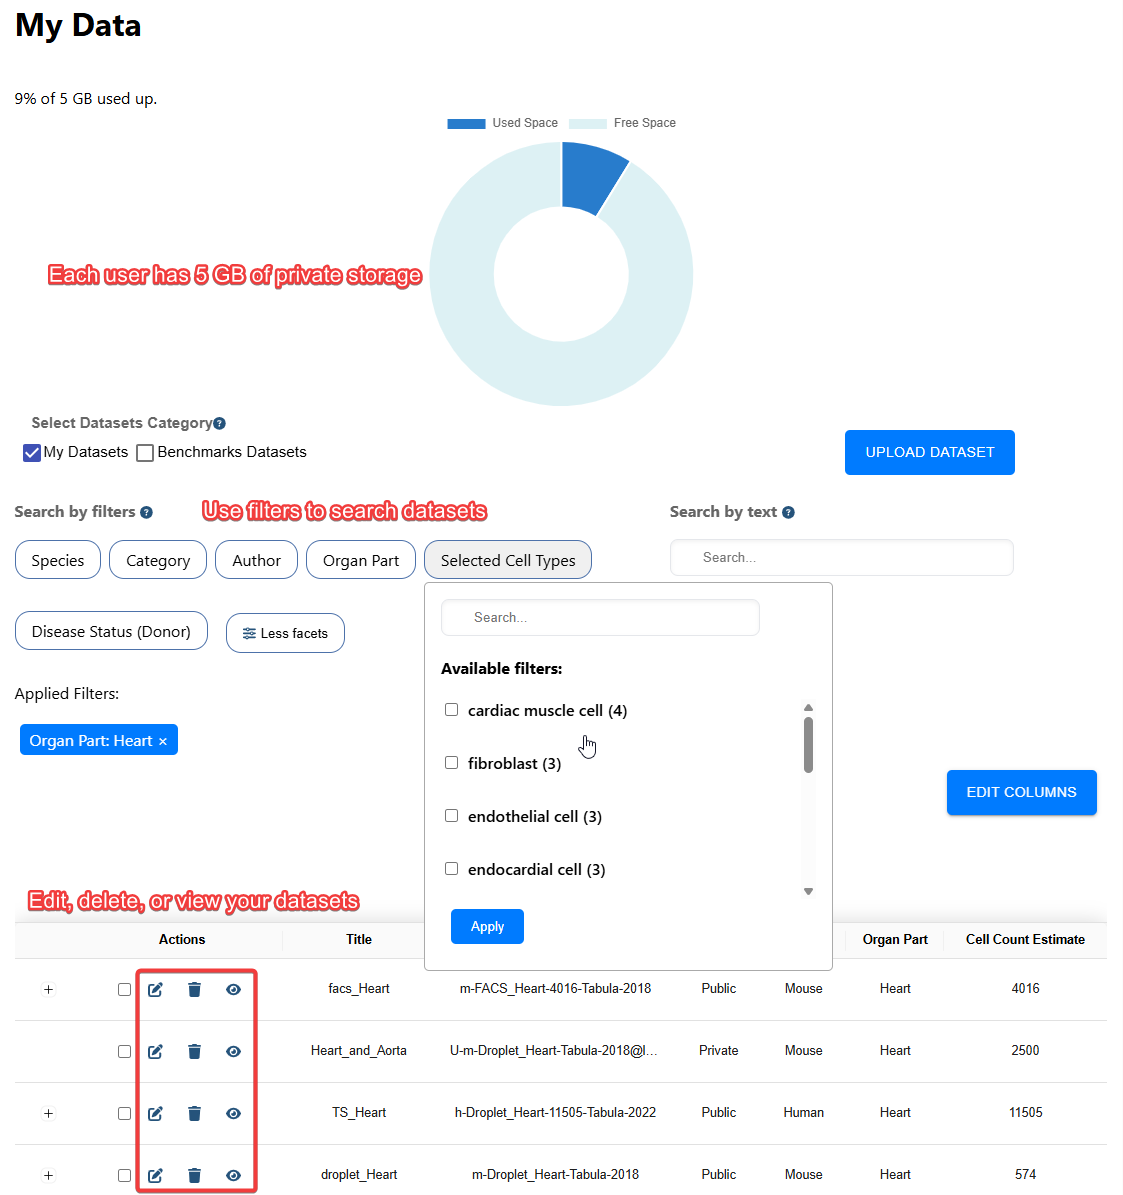
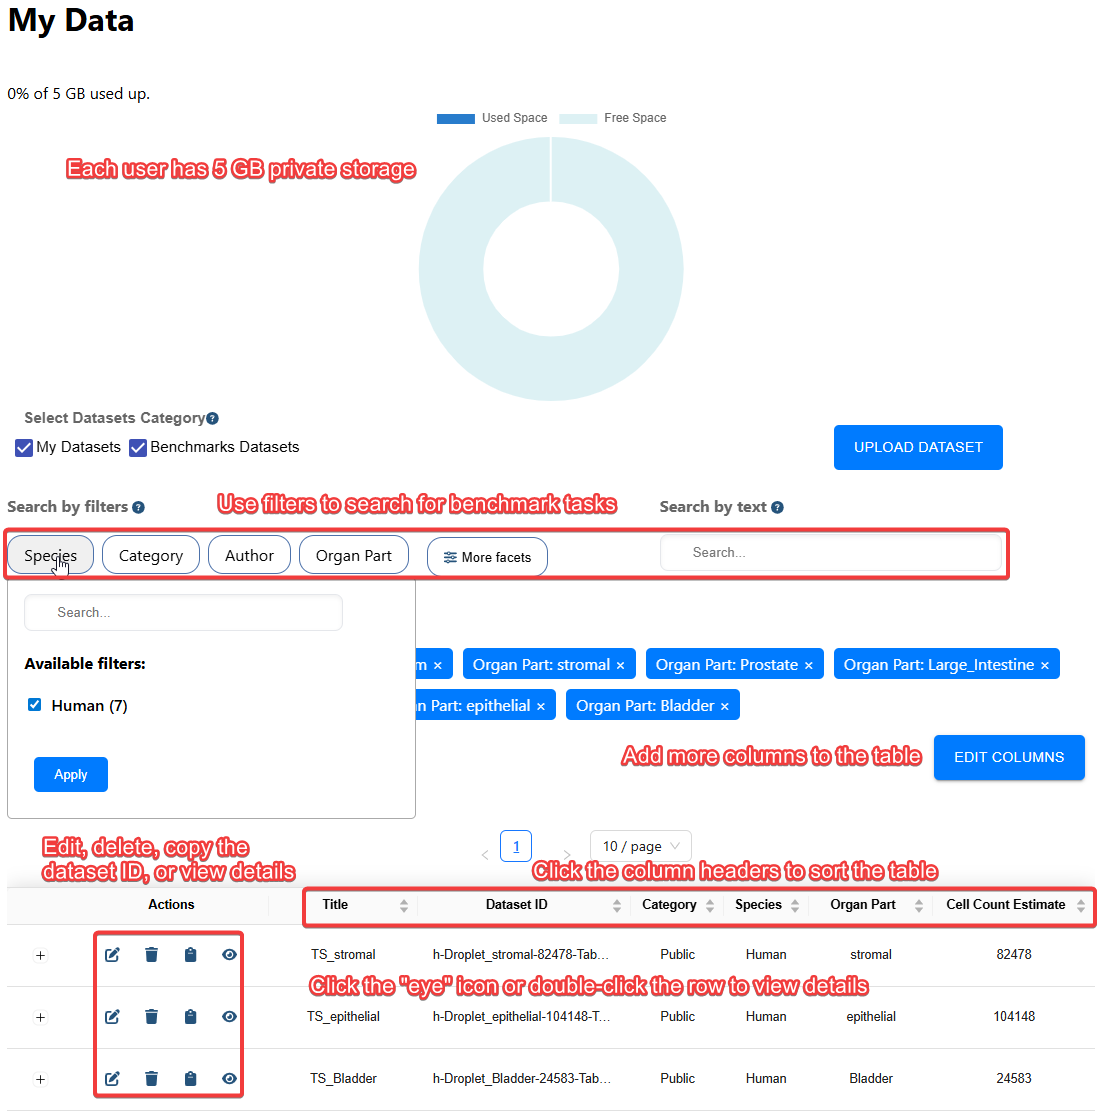
Add delete button to task details.

diff --git a/oscb-ui/oscb-react/src/components/MyData/MyTasks/workflowTaskDetailsComponent.js b/oscb-ui/oscb-react/src/components/MyData/MyTasks/workflowTaskDetailsComponent.js
@@ -1,5 +1,5 @@
 import React, { useState, useEffect } from 'react';
-import { useLocation } from 'react-router-dom';
+import { useLocation, useNavigate } from 'react-router-dom';
 import useWebSocket from './useWebSocket'; // Custom hook for WebSocket
 import {
   Container, Typography, Chip, Box, Grid, TextField, Button,
@@ -140,6 +140,7 @@ function downloadFile(fileUrl) {
 
 function WorkflowTaskDetailsComponent() {
   const location = useLocation();
+  const navigate = useNavigate();
   const { job_id, methodMap, datasetURL, description, process, output, results, status } = location.state || {};
   const [taskStatus, setTaskStatus] = useState(null); // Set to null initially
   const [taskOutput, setTaskOutput] = useState(null); // Set to null initially
@@ -303,6 +304,27 @@ function WorkflowTaskDetailsComponent() {
         setIsError(true);
       }
     }
+  };
+
+  const handleDelete = () => {
+    console.log("Delete job: ", job_id);
+    const confirmDelete = window.confirm("Are you sure to delete this job?");
+    if (!confirmDelete) {
+      return; // If user clicks cancel, do nothing
+    }
+    axios.delete(`${NODE_API_URL}/deleteJob?jobID=${job_id}`)
+      .then(response => {
+        axios.post(`${CELERY_BACKEND_API}/task/revoke/${job_id}`).then(response => {
+          console.log('Job is deleted successfully');
+          navigate('/myJobs');
+        })
+          .catch(error => {
+            console.error('Error deleting job:', error);
+          });
+      })
+      .catch(error => {
+        console.error('Error deleting job:', error);
+      });
   };
 
   // WebSocket listener
@@ -593,10 +615,23 @@ function WorkflowTaskDetailsComponent() {
                         <Typography variant="body2" color="textSecondary">Not available</Typography>
                       )}
                     </Grid>
-                    <Grid item xs={12}>
+                    <Grid item xs={6}>
                       <Typography variant="subtitle1" gutterBottom><strong>Status:</strong></Typography>
                       <Box sx={{ display: 'flex', alignItems: 'center', gap: 1 }}>
                         <StatusChip status={taskStatus} />
+                      </Box>
+                    </Grid>
+                    <Grid item xs={6}>
+                      <Typography variant="subtitle1" gutterBottom><strong>Action:</strong></Typography>
+                      <Box sx={{ display: 'flex', alignItems: 'center', gap: 1 }}>
+                        <Button
+                          variant="outlined"
+                          color="error"
+                          onClick={handleDelete}
+                          // sx={{ mt: 2 }}
+                        >
+                          {(taskStatus && taskStatus.toLowerCase() !== "success" && taskStatus.toLowerCase() !== "failure") ? 'Terminate' : 'Delete'}
+                        </Button>
                       </Box>
                     </Grid>
                   </Grid>

diff --git a/oscb-ui/oscb-react/src/components/MyData/MyTasks/taskDetailsComponent.js b/oscb-ui/oscb-react/src/components/MyData/MyTasks/taskDetailsComponent.js
@@ -326,6 +326,26 @@ function TaskDetailsComponent() {
     fetchFiles();
   }, [job_id]);
 
+  const handleDelete = () => {
+      console.log("Delete job: ", job_id);
+      const confirmDelete = window.confirm("Are you sure to delete this job?");
+      if (!confirmDelete) {
+        return; // If user clicks cancel, do nothing
+      }
+      axios.delete(`${NODE_API_URL}/deleteJob?jobID=${job_id}`)
+        .then(response => {
+          axios.post(`${CELERY_BACKEND_API}/task/revoke/${job_id}`).then(response => {
+            console.log('Job is deleted successfully');
+            navigate('/myJobs');
+          })
+            .catch(error => {
+              console.error('Error deleting job:', error);
+            });
+        })
+        .catch(error => {
+          console.error('Error deleting job:', error);
+        });
+    };
 
   const handleLogMessage = (event) => {
     setLiveLogs((prevLogs) => prevLogs + event.data);
@@ -461,10 +481,23 @@ function TaskDetailsComponent() {
                           : (<Typography variant="body1">{method}</Typography>))
                       }
                     </Grid>
-                    <Grid item xs={12}> 
+                    <Grid item xs={6}> 
                       <Typography variant="subtitle1" gutterBottom><strong>Status:</strong></Typography>
                       <Box sx={{ display: 'flex', alignItems: 'center', gap: 1 }}>
                         <StatusChip status={taskStatus} />
+                      </Box>
+                    </Grid>
+                    <Grid item xs={6}>
+                      <Typography variant="subtitle1" gutterBottom><strong>Action:</strong></Typography>
+                      <Box sx={{ display: 'flex', alignItems: 'center', gap: 1 }}>
+                        <Button
+                          variant="outlined"
+                          color="error"
+                          onClick={handleDelete}
+                          // sx={{ mt: 2 }}
+                        >
+                          {(taskStatus && taskStatus.toLowerCase() !== "success" && taskStatus.toLowerCase() !== "failure") ? 'Terminate' : 'Delete'}
+                        </Button>
                       </Box>
                     </Grid>
                 </Grid>

diff --git a/oscb-ui/oscb-react/src/components/publishDatasets/components/tableResultsComponent.js b/oscb-ui/oscb-react/src/components/publishDatasets/components/tableResultsComponent.js
@@ -382,6 +382,7 @@ const ResultsTable = ({ data, onSelectDataset, selectedDatasets, multiple, pagin
                 }}
             />
             { <div className="pagination-info">
+                <span>* Click the <strong>column headers</strong> to apply <strong>*filters</strong> or <strong>sort</strong> the table.</span><br />
                 <span>* Click <strong>+</strong> to expand a row and view the detailed outputs of each processed result.</span><br/>
                 {showEdit && (<span>* Click <FontAwesomeIcon icon={faEdit} /> to <strong>Edit</strong> dataset.<br /></span>)}
                 {showDelete && (<span>* Click <FontAwesomeIcon icon={faTrash} /> to <strong>Delete</strong> dataset.<br /></span>)}

diff --git a/oscb-ui/oscb-react/src/components/MyData/taskTable.js b/oscb-ui/oscb-react/src/components/MyData/taskTable.js
@@ -586,7 +586,7 @@ const TaskTable = () => {
                         </div>
                     )}
                 <div className="pagination-info">
-                    <span>* Click <strong>Header</strong> to <strong>sort</strong> or <strong>filter</strong> jobs.</span><br />
+                    <span>* Click the <strong>column headers</strong> to apply <strong>*filters</strong> or <strong>sort</strong> the table.</span><br />
                     <span>* Click <FontAwesomeIcon icon={faTrash} /> to <strong>remove</strong> jobs.</span><br/>
                     <span>
                         * Click <FontAwesomeIcon icon={faEye} /> or <strong>double-click</strong> the row to view job details

diff --git a/oscb-ui/oscb-react/src/components/common_components/treeTableComponent.js b/oscb-ui/oscb-react/src/components/common_components/treeTableComponent.js
@@ -271,6 +271,7 @@ const TreeTable = ({ data, onSelectDataset, selectedDatasets, multiple, paginati
                 }}
             />
             <div className="pagination-info">
+                <span>* Click the <strong>column headers</strong> to apply <strong>*filters</strong> or <strong>sort</strong> the table.</span><br />
                 <span>* Click <FontAwesomeIcon icon={faClipboard} /> to copy <strong>Benchmarks ID</strong>.</span><br/>
                 <span>
                     * Click <FontAwesomeIcon icon={faEye} /> or <strong>double-click</strong> the row to view details

diff --git a/oscb-ui/oscb-react/markdown/doc/job_management.md b/oscb-ui/oscb-react/markdown/doc/job_management.md
@@ -8,11 +8,14 @@ We implemented an asynchronous job management system. After submitting a job, it
 
 You can monitor status, view results, or delete jobs on the **“My Jobs”** page.
 
-The top 5 jobs are displayed in the right sidebar.
+The top **5 jobs** are displayed in the **right sidebar**.
 
 <div align="center">
 <img src="/images/doc/my_jobs.png" width="80%">
 </div>
+
+> [!TIP]  
+> Click the **column headers** to apply **filters** or **sort** the table. 
 
 <hr/>
 

diff --git a/oscb-ui/oscb-react/markdown/doc/benchmarks.md b/oscb-ui/oscb-react/markdown/doc/benchmarks.md
@@ -15,6 +15,9 @@ You can:
 <img src="/images/doc/view_benchmarks.png" width="80%">
 </div>
 
+> [!TIP]  
+> Click the **column headers** to **sort** the table. 
+
 On the **Benchmark Details** page, you can view:
 
 * **Dataset metadata** — information about the dataset used in the benchmark.

diff --git a/oscb-ui/oscb-react/markdown/doc/data_management.md b/oscb-ui/oscb-react/markdown/doc/data_management.md
@@ -84,6 +84,9 @@ Users can search datasets using filters such as species, category, author, organ
 <img src="/images/doc/my_data.png" width="80%">
 </div>
 
+> [!TIP]  
+> Click the **column headers** to **sort** the table. 
+
 <hr/>
 
 ## Dataset Details
